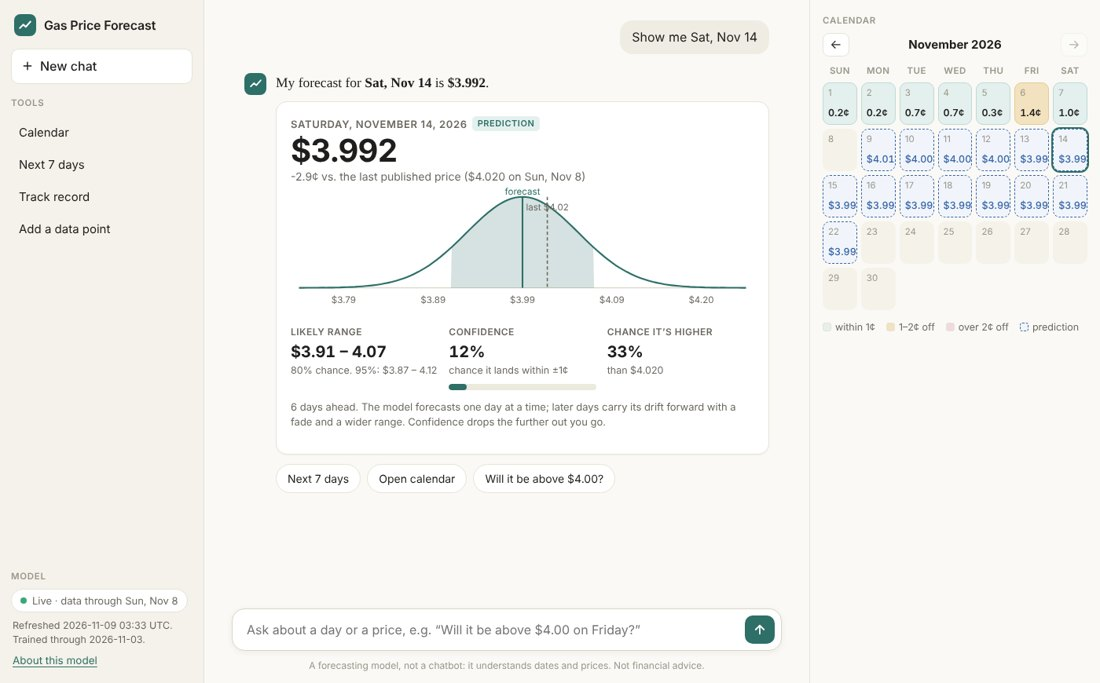
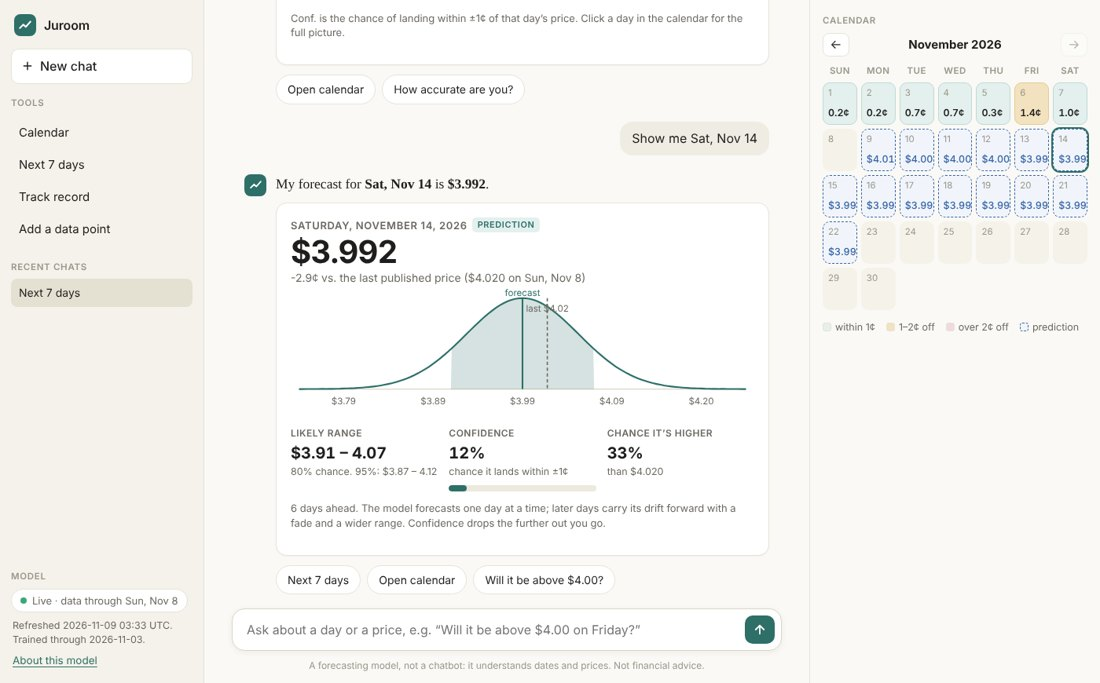
Rename project card link to Juroom, new photo
Claude-Session: https://claude.ai/code/session_01LzMNsCgXCciy1aZvAhaCah

diff --git a/index.html b/index.html
@@ -778,7 +778,7 @@ footer::before{content:"";position:absolute;left:0;right:0;top:0;height:4px;back
         </article>
 
         <article class="entry t-cv">
-          <a class="thumb" href="https://orvillerockwelljr.com/aai6640-team5/" style="display:block" aria-label="Open the GasLab forecasting demo"><img src="assets/img/gaslab-calendar.jpg" alt="GasLab demo: a calendar of past gas price forecasts, each day colored by how close the model was to the actual price" loading="lazy" width="960" height="602"></a>
+          <a class="thumb" href="https://orvillerockwelljr.com/aai6640-team5/" style="display:block" aria-label="Open Juroom, the forecasting model"><img src="assets/img/gaslab-calendar.jpg" alt="GasLab demo: a calendar of past gas price forecasts, each day colored by how close the model was to the actual price" loading="lazy" width="960" height="602"></a>
           <div>
             <h3><span class="mk" style="background:var(--cv)" aria-hidden="true"></span>VAD-LSTM: Volatility-Aware Distributional Forecasting</h3>
             <p class="where"><b>Course project</b>, Applied Deep Learning (AAI 6640), Northeastern University<br>Team lead of four</p>
@@ -786,7 +786,7 @@ footer::before{content:"";position:absolute;left:0;right:0;top:0;height:4px;back
             <p class="sum">A recurrent network that forecasts a full probability distribution rather than a point estimate, so any threshold question is read straight off the model. It extends the GARCH&ndash;LSTM equivalence of Zhao et al. (2024) with an in-cell variance recursion and a Student-t output head.</p>
             <p class="key"><b>My part.</b> I lead the team and own the ten-year dataset and the evaluation: purged walk-forward splits, isotonic recalibration and conformal coverage.</p>
             <p class="methods">TensorFlow Probability, sequence models, calibration, conformal prediction</p>
-            <p class="more"><a href="https://orvillerockwelljr.com/aai6640-team5/">Try the model: GasLab demo</a></p>
+            <p class="more"><a href="https://orvillerockwelljr.com/aai6640-team5/">Try the model: Juroom</a></p>
           </div>
         </article>
 
